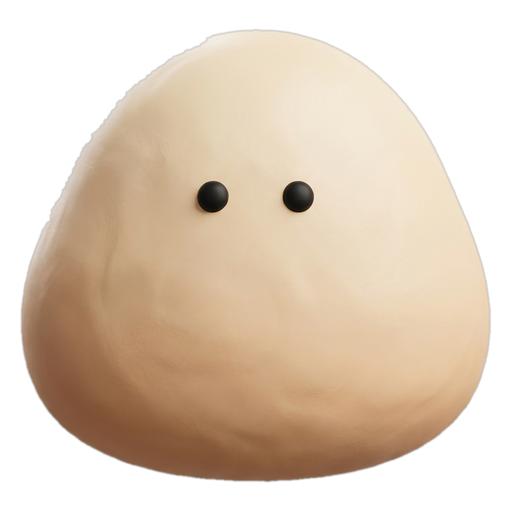
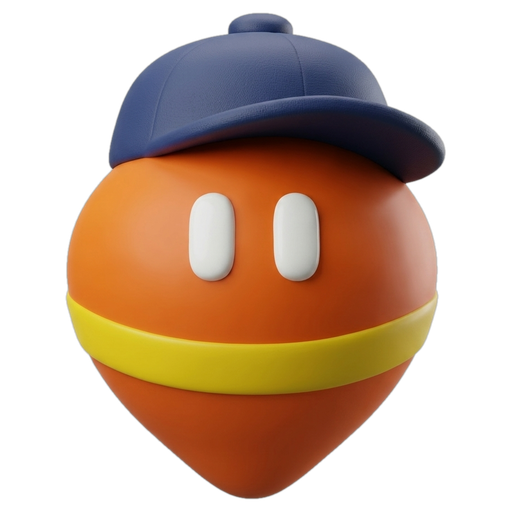
## Готово: новый аватар, ввод текста и исправленная озвучка «St.»
Все три пункта реализованы и проверены мной по скриншотам веб-превью. Полное автотестирование пока не запускалось, поэтому рекомендую проверить функционал в вашем окружении.

- **Аватар.** ИИ создал нового персонажа с вашего скриншота в объёмном 3D-стиле: оранжевое тело, синяя кепка, белые глаза и жёлтый пояс. Фон убран, аватар доступен в приложении. Старая версия сохранена и может быть восстановлена.
- **Ввод текстом.** Слева от аватара появилась кнопка «Type», открывающая поле ввода с кнопкой отправки. Кнопка с микрофоном справа закрывает поле. Текстовые запросы обрабатываются аналогично голосовым. По примеру запроса «Find me a truck stop with showers» копилот построил маршрут до Capitol Truck Plaza и ответил голосом. После текстового запроса микрофон не активируется автоматически.
  - Исправил проблему, когда строка ввода выходила за правый край.
  - Поле ввода корректно поднимается над клавиатурой, однако на телефоне в Expo Go это следует дополнительно проверить, так как в браузере экранной клавиатуры нет.
- **Озвучка.**
  - «Main St. Exit 12» теперь произносится как «Main Street», «Oak Dr.» — «Oak Drive».
  - «near St. Louis» по-прежнему звучит как «Saint Louis».
  - Остаётся исключение: если «St.» следует за словом с заглавной буквы в начале фразы, например «Visit St. Louis», это читается как «Street».

Поиск мест работает на демо-данных Сакраменто.

**Как смотреть и публиковать приложение:**
- Сейчас функционируете в тестовой среде (превью).
[…]

diff --git a/frontend/src/components/CopilotSheet.tsx b/frontend/src/components/CopilotSheet.tsx
@@ -1,4 +1,6 @@
-import { Pressable, StyleSheet, Text, View } from "react-native";
+import { useState } from "react";
+import { Pressable, StyleSheet, Text, TextInput, View } from "react-native";
+import { KeyboardStickyView } from "react-native-keyboard-controller";
 import Animated, { FadeIn } from "react-native-reanimated";
 
 import { fonts, shadow, spacing, useTheme } from "../theme";
@@ -22,6 +24,7 @@ type Props = {
   active: ActiveRoute | null;
   bottomInset: number;
   onAvatarPress: () => void;
+  onSubmitText: (text: string) => void;
   onClose: () => void;
   onEndRoute: () => void;
   onLayout: (h: number) => void;
@@ -54,9 +57,20 @@ function SideButton({
 }
 
 export function CopilotSheet(props: Props) {
-  const { phase, speaking, onShowOptions, thinkingText, options, parking, onOptionParking, onOptionRoute, active, bottomInset, onAvatarPress, onClose, onEndRoute, onLayout, wakePhrase } = props;
+  const { phase, speaking, onShowOptions, thinkingText, options, parking, onOptionParking, onOptionRoute, active, bottomInset, onAvatarPress, onSubmitText, onClose, onEndRoute, onLayout, wakePhrase } = props;
   const { colors } = useTheme();
   const navigating = phase === "navigating";
+  const canType = phase === "ready" || phase === "navigating" || phase === "options";
+  const [typing, setTyping] = useState(false);
+  const [draft, setDraft] = useState("");
+  const send = () => {
+    const text = draft.trim();
+    if (!text) return;
+    haptic("medium");
+    setDraft("");
+    setTyping(false);
+    onSubmitText(text);
+  };
 
   const caption =
     phase === "listening"
@@ -72,6 +86,7 @@ export function CopilotSheet(props: Props) {
               : "Tap to talk";
 
   return (
+    <KeyboardStickyView offset={{ closed: 0, opened: bottomInset }} style={styles.wrap}>
     <View
       testID="copilot-sheet"
       onLayout={(e) => onLayout(e.nativeEvent.layout.height)}
@@ -138,8 +153,44 @@ export function CopilotSheet(props: Props) {
         )}
       </Animated.View>
 
+      {typing && canType ? (
+        <Animated.View entering={FadeIn.duration(180)} style={styles.inputRow}>
+          <TextInput
+            testID="copilot-text-input"
+            value={draft}
+            onChangeText={setDraft}
+            onSubmitEditing={send}
+            placeholder="Type a request…"
+            placeholderTextColor={colors.onSurfaceSecondary}
+            returnKeyType="send"
+            autoFocus
+            style={[styles.input, { backgroundColor: colors.surfaceSecondary, color: colors.onSurface }]}
+          />
+          <PressableScale
+            testID="copilot-send-button"
+            accessibilityLabel="Send"
+            onPress={send}
+            disabled={!draft.trim()}
+            style={[styles.roundBtn, { backgroundColor: draft.trim() ? colors.info : colors.surfaceTertiary }]}
+          >
+            <Icon name="send" size={22} color={draft.trim() ? colors.onInfo : colors.onSurfaceSecondary} />
+          </PressableScale>
+          <PressableScale
+            testID="copilot-text-cancel"
+            accessibilityLabel="Cancel typing"
+            onPress={() => setTyping(false)}
+            style={[styles.roundBtn, { backgroundColor: colors.surfaceSecondary }]}
+          >
+            <Icon name="microphone" size={22} color={colors.onSurface} />
+          </PressableScale>
+        </Animated.View>
+      ) : (
       <View style={styles.actions}>
-        <View style={styles.side} />
+        {canType ? (
+          <SideButton icon="keyboard-outline" label="Type" testID="type-button" onPress={() => setTyping(true)} />
+        ) : (
+          <View style={styles.side} />
+        )}
 
         <Pressable
           testID="copilot-avatar-button"
@@ -174,17 +225,18 @@ export function CopilotSheet(props: Props) {
         )}
         {navigating && <SideButton icon="close" label="End route" testID="end-route-button" onPress={onEndRoute} danger />}
       </View>
-
+      )}
     </View>
+    </KeyboardStickyView>
   );
 }
 
 const styles = StyleSheet.create({
+  wrap: { position: "absolute", left: 0, right: 0, bottom: 0 },
+  inputRow: { flexDirection: "row", alignItems: "center", gap: spacing.sm, marginTop: spacing.md },
+  input: { flex: 1, minWidth: 0, width: 0, minHeight: 52, borderRadius: 26, paddingHorizontal: spacing.lg, fontFamily: fonts.medium, fontSize: 16 },
+  roundBtn: { flexShrink: 0, width: 52, height: 52, borderRadius: 26, alignItems: "center", justifyContent: "center" },
   sheet: {
-    position: "absolute",
-    left: 0,
-    right: 0,
-    bottom: 0,
     borderTopLeftRadius: 28,
     borderTopRightRadius: 28,
     paddingTop: spacing.sm,

diff --git a/frontend/app/index.tsx b/frontend/app/index.tsx
@@ -254,7 +254,17 @@ export default function MapScreen() {
   const backToIdle = () =>
     setPhase(activeRef.current ? "navigating" : optionsRef.current.length ? "options" : "ready");
 
-  const submitTurn = async (recorded?: string) => {
+  /** Typed request: same pipeline as voice, without recording or reopening the mic. */
+  const onSubmitText = (text: string) => {
+    if (phase === "thinking") return;
+    voice.stopSpeaking();
+    voice.cancelRecording().catch(() => {});
+    endDialog();
+    setCaption(null);
+    submitTurn(undefined, text);
+  };
+
+  const submitTurn = async (recorded?: string, typed?: string) => {
     clearTimers();
     const myTurn = ++turn.current;
     setPhase("thinking");
@@ -263,12 +273,15 @@ export default function MapScreen() {
     inflight.current = ctrl;
     const timer = setTimeout(() => ctrl.abort(), REQUEST_TIMEOUT_MS);
     try {
-      const uri = recorded ?? (await voice.stopRecording());
-      if (!uri) throw new Error("no recording");
-      const { transcript } = await api.transcribe(uri, ctrl.signal);
+      let transcript = typed ?? "";
+      if (typed === undefined) {
+        const uri = recorded ?? (await voice.stopRecording());
+        if (!uri) throw new Error("no recording");
+        transcript = (await api.transcribe(uri, ctrl.signal)).transcript;
+      }
       if (myTurn !== turn.current) return;
       if (transcript) {
-        playFiller(); // only when the driver actually said something
+        if (typed === undefined) playFiller(); // only when the driver actually said something
         setCaption({ reply: "…", heard: transcript });
       }
       const res = await api.agentSpeak(transcript, loc.coords, activeRef.current, ctrl.signal, dialog.current ?? undefined);
@@ -540,6 +553,7 @@ export default function MapScreen() {
         active={active}
         bottomInset={insets.bottom}
         onAvatarPress={onAvatarPress}
+        onSubmitText={onSubmitText}
         onClose={onClose}
         onEndRoute={onEndRoute}
         onLayout={setSheetH}

diff --git a/backend/services/speech_text.py b/backend/services/speech_text.py
@@ -73,7 +73,10 @@ _RULES = [
     (re.compile(r"(?<![.\w])N\.(?=\s)"), "North"),
     (re.compile(r"(?<![.\w])S\.(?=\s)"), "South"),
     (re.compile(r"(?<![.\w])E\.(?=\s)"), "East"),
-    # Before a name: "St. Louis" = Saint, "Dr. Martin..." = Doctor; otherwise street suffixes.
+    # After a street name ("Main St. Exit 12", "3rd St") it's a suffix; before a name
+    # ("near St. Louis", "Dr. Martin...") it's Saint / Doctor; otherwise street suffixes.
+    (re.compile(r"(\b[A-Z0-9][\w']*\s+)St\b"), r"\1Street"),
+    (re.compile(r"(\b[A-Z0-9][\w']*\s+)Dr\b"), r"\1Drive"),
     (re.compile(r"\bSt\.?\s+(?=[A-Z][a-z])(?!Next\b|Then\b|Turn\b|The\b)"), "Saint "),
     (re.compile(r"\bDr\.?\s+(?=[A-Z][a-z])(?!Next\b|Then\b|Turn\b|The\b)"), "Doctor "),
     (re.compile(r"\bAve\b"), "Avenue"),

diff --git a/memory/PRD.md b/memory/PRD.md
@@ -70,3 +70,8 @@ Scope change from the user: a simple MOCK MVP. No Whisper, GPT, TTS, Overpass or
 - App flow: /api/voice/transcribe -> caption "You said" -> /api/agent?speak=true (active_distance_mi/duration_min, no re-route). Filler line ("On it." etc., cached /api/speak) plays meanwhile. 2-sentence replies: audio_url + audio_url_2 (parallel TTS).
 - /api/warm (3 categories + top-2 parking checks), shared httpx client (services/http.py), 16 kHz mono recording, silence 700 ms, timings in response + log (services/timing.py).
 - Server time to reply ready: find 6.3 s -> 3.6 s, Reno 4.4 s -> 3.2 s (TTS is the largest remaining stage).
+
+## Update (Jun 2026)
+- New AI-redrawn 3D copilot avatar (Gemini Nano Banana from user screenshot) → frontend/assets/images/avatar.png
+- Manual text input: "Type" button in CopilotSheet → same agent pipeline as voice (no transcription, mic not reopened)
+- speech_text.spoken(): "Main St. Exit 12" → "Main Street", "Oak Dr." → "Drive"; "near St. Louis" stays "Saint"
